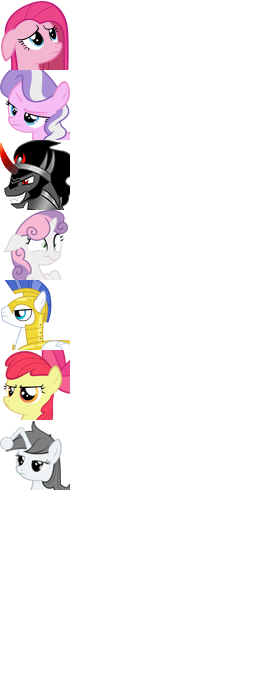
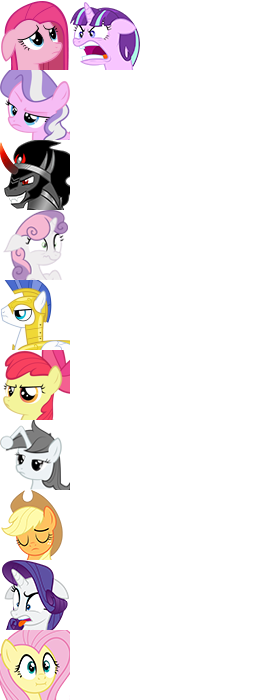
Add four new ponymoticons

Changed region(s): [[0.0, 0.6, 0.2571, 1.0], [0.2571, 0.0, 0.5143, 0.12]]

diff --git a/JabbR/Chat.emoji.js b/JabbR/Chat.emoji.js
@@ -6,7 +6,7 @@ var EmojiIcons;
     
     var validEmoji = { "+1": true, "-1": true, "0": true, "1": true, "109": true, "2": true, "3": true, "4": true, "5": true, "6": true, "7": true, "8": true, "8ball": true, "9": true, "a": true, "ab": true, "airplane": true, "alien": true, "ambulance": true, "angel": true, "anger": true, "angry": true, "apple": true, "aquarius": true, "aries": true, "arrow_backward": true, "arrow_down": true, "arrow_forward": true, "arrow_left": true, "arrow_lower_left": true, "arrow_lower_right": true, "arrow_right": true, "arrow_up": true, "arrow_upper_left": true, "arrow_upper_right": true, "art": true, "astonished": true, "atm": true, "b": true, "baby": true, "baby_chick": true, "baby_symbol": true, "balloon": true, "bamboo": true, "bank": true, "barber": true, "baseball": true, "basketball": true, "bath": true, "bear": true, "beer": true, "beers": true, "beginner": true, "bell": true, "bento": true, "bike": true, "bikini": true, "bird": true, "birthday": true, "black_square": true, "blue_car": true, "blue_heart": true, "blush": true, "boar": true, "boat": true, "bomb": true, "book": true, "boot": true, "bouquet": true, "bow": true, "bowtie": true, "boy": true, "bread": true, "briefcase": true, "broken_heart": true, "bug": true, "bulb": true, "bullettrain_front": true, "bullettrain_side": true, "bus": true, "busstop": true, "cactus": true, "cake": true, "calling": true, "camel": true, "camera": true, "cancer": true, "capricorn": true, "car": true, "cat": true, "cd": true, "chart": true, "checkered_flag": true, "cherry_blossom": true, "chicken": true, "christmas_tree": true, "church": true, "cinema": true, "city_sunrise": true, "city_sunset": true, "clap": true, "clapper": true, "clock1": true, "clock10": true, "clock11": true, "clock12": true, "clock2": true, "clock3": true, "clock4": true, "clock5": true, "clock6": true, "clock7": true, "clock8": true, "clock9": true, "closed_umbrella": true, "cloud": true, "clubs": true, "cn": true, "cocktail": true, "coffee": true, "cold_sweat": true, "computer": true, "confounded": true, "congratulations": true, "construction": true, "construction_worker": true, "convenience_store": true, "cool": true, "cop": true, "copyright": true, "couple": true, "couple_with_heart": true, "couplekiss": true, "cow": true, "crossed_flags": true, "crown": true, "cry": true, "cupid": true, "currency_exchange": true, "curry": true, "cyclone": true, "dancer": true, "dancers": true, "dango": true, "dart": true, "dash": true, "de": true, "department_store": true, "diamonds": true, "disappointed": true, "dog": true, "dolls": true, "dolphin": true, "dress": true, "dvd": true, "ear": true, "ear_of_rice": true, "egg": true, "eggplant": true, "eight_pointed_black_star": true, "eight_spoked_asterisk": true, "elephant": true, "email": true, "es": true, "european_castle": true, "exclamation": true, "eyes": true, "factory": true, "fallen_leaf": true, "fast_forward": true, "fax": true, "fearful": true, "feelsgood": true, "feet": true, "ferris_wheel": true, "finnadie": true, "fire": true, "fire_engine": true, "fireworks": true, "fish": true, "fist": true, "flags": true, "flushed": true, "football": true, "fork_and_knife": true, "fountain": true, "four_leaf_clover": true, "fr": true, "fries": true, "frog": true, "fuelpump": true, "gb": true, "gem": true, "gemini": true, "ghost": true, "gift": true, "gift_heart": true, "girl": true, "goberserk": true, "godmode": true, "golf": true, "green_heart": true, "grey_exclamation": true, "grey_question": true, "grin": true, "guardsman": true, "guitar": true, "gun": true, "haircut": true, "hamburger": true, "hammer": true, "hamster": true, "hand": true, "handbag": true, "hankey": true, "hash": true, "headphones": true, "heart": true, "heart_decoration": true, "heart_eyes": true, "heartbeat": true, "heartpulse": true, "hearts": true, "hibiscus": true, "high_heel": true, "horse": true, "hospital": true, "hotel": true, "hotsprings": true, "house": true, "hurtrealbad": true, "icecream": true, "id": true, "ideograph_advantage": true, "imp": true, "information_desk_person": true, "iphone": true, "it": true, "jack_o_lantern": true, "japanese_castle": true, "joy": true, "jp": true, "key": true, "kimono": true, "kiss": true, "kissing_face": true, "kissing_heart": true, "koala": true, "koko": true, "kr": true, "leaves": true, "leo": true, "libra": true, "lips": true, "lipstick": true, "lock": true, "loop": true, "loudspeaker": true, "love_hotel": true, "mag": true, "mahjong": true, "mailbox": true, "man": true, "man_with_gua_pi_mao": true, "man_with_turban": true, "maple_leaf": true, "mask": true, "massage": true, "mega": true, "memo": true, "mens": true, "metal": true, "metro": true, "microphone": true, "minidisc": true, "mobile_phone_off": true, "moneybag": true, "monkey": true, "monkey_face": true, "moon": true, "mortar_board": true, "mount_fuji": true, "mouse": true, "movie_camera": true, "muscle": true, "musical_note": true, "nail_care": true, "necktie": true, "new": true, "no_good": true, "no_smoking": true, "nose": true, "notes": true, "o": true, "o2": true, "ocean": true, "octocat": true, "octopus": true, "oden": true, "office": true, "ok": true, "ok_hand": true, "ok_woman": true, "older_man": true, "older_woman": true, "open_hands": true, "ophiuchus": true, "palm_tree": true, "parking": true, "part_alternation_mark": true, "pencil": true, "penguin": true, "pensive": true, "persevere": true, "person_with_blond_hair": true, "phone": true, "pig": true, "pill": true, "pisces": true, "point_down": true, "point_left": true, "point_right": true, "point_up": true, "point_up_2": true, "police_car": true, "poop": true, "post_office": true, "postbox": true, "pray": true, "princess": true, "punch": true, "purple_heart": true, "question": true, "rabbit": true, "racehorse": true, "radio": true, "rage": true, "rage1": true, "rage2": true, "rage3": true, "rage4": true, "rainbow": true, "raised_hands": true, "ramen": true, "red_car": true, "red_circle": true, "registered": true, "relaxed": true, "relieved": true, "restroom": true, "rewind": true, "ribbon": true, "rice": true, "rice_ball": true, "rice_cracker": true, "rice_scene": true, "ring": true, "rocket": true, "roller_coaster": true, "rose": true, "ru": true, "runner": true, "sa": true, "sagittarius": true, "sailboat": true, "sake": true, "sandal": true, "santa": true, "satellite": true, "satisfied": true, "saxophone": true, "school": true, "school_satchel": true, "scissors": true, "scorpius": true, "scream": true, "seat": true, "secret": true, "shaved_ice": true, "sheep": true, "shell": true, "ship": true, "shipit": true, "shirt": true, "shit": true, "shoe": true, "signal_strength": true, "six_pointed_star": true, "ski": true, "skull": true, "sleepy": true, "slot_machine": true, "smile": true, "smiley": true, "smirk": true, "smoking": true, "snake": true, "snowman": true, "sob": true, "soccer": true, "space_invader": true, "spades": true, "spaghetti": true, "sparkler": true, "sparkles": true, "speaker": true, "speedboat": true, "squirrel": true, "star": true, "star2": true, "stars": true, "station": true, "statue_of_liberty": true, "stew": true, "strawberry": true, "sunflower": true, "sunny": true, "sunrise": true, "sunrise_over_mountains": true, "surfer": true, "sushi": true, "suspect": true, "sweat": true, "sweat_drops": true, "swimmer": true, "syringe": true, "tada": true, "tangerine": true, "taurus": true, "taxi": true, "tea": true, "telephone": true, "tennis": true, "tent": true, "thumbsdown": true, "thumbsup": true, "ticket": true, "tiger": true, "tm": true, "toilet": true, "tokyo_tower": true, "tomato": true, "tongue": true, "top": true, "tophat": true, "traffic_light": true, "train": true, "trident": true, "trollface": true, "trophy": true, "tropical_fish": true, "truck": true, "trumpet": true, "tshirt": true, "tulip": true, "tv": true, "u5272": true, "u55b6": true, "u6307": true, "u6708": true, "u6709": true, "u6e80": true, "u7121": true, "u7533": true, "u7a7a": true, "umbrella": true, "unamused": true, "underage": true, "unlock": true, "up": true, "us": true, "v": true, "vhs": true, "vibration_mode": true, "virgo": true, "vs": true, "walking": true, "warning": true, "watermelon": true, "wave": true, "wc": true, "wedding": true, "whale": true, "wheelchair": true, "white_square": true, "wind_chime": true, "wink": true, "wink2": true, "wolf": true, "woman": true, "womans_hat": true, "womens": true, "x": true, "yellow_heart": true, "zap": true, "zzz": true };
     var validv4c = { "ducktart": "dooktart.png", "ready": "ready.gif", "birry": "ztop.gif", "vdog": "cat.gif", "gaben": "zgabe.gif", "3s": "seal.png", "burd": "birdy.gif", "snoop": "snoop.gif", "jimmies": "jimmy.gif", "sanic": "sonicx.png", "burgirl": "ss.gif", "dilbert": "dilbert.gif", "deepdarkfantasy": "fantasy.gif", "bioware": "biogurl.gif", "shazbot": "33.png", "bestkorea": "kim.gif", "hitoame": "shower.gif", "duane": "duane.gif", "keke": "keke6.png", "uncle": "VffoS.jpg", "reshiram": "ee.gif", "push": "push.gif", "autism": "a.gif", "juggalo": "ll.gif", "stanza": "heh.png", "bestgames": "pstriple.png", "gamestop": "spekettle.gif", "teto": "oz.gif", "fothegrove": "grove.gif", "aliens": "aliens.gif", "go": "zgo.gif", "pomf": "pomf.png", "kreayshawn": "kray.png", "bodywash": "bodywash.png", "goblinu": "zgobz.jpg", "feel": "feel.png", "valien": "ssd.gif", "2spooky4me": "spooky.gif", "gooby": "o2XNE.jpg", "dosh": "dsdasd.png", "8bitdose": "wee2.gif", "costanza": "heh.png", "america": "america.gif", "babyface": "babyface.gif", "babyguitar": "babyguitar.gif", "bearfight": "bearfight.gif", "bogs": "bogs.png", "boom": "boom.png", "brobill": "brobill.gif", "chen": "chen.png", "dante": "dante.png", "data": "data.gif", "datass": "datass.gif", "dewbunker": "dewbunker.gif", "dewritos": "dewritos.jpg", "doingitwell": "doingitwell.png", "doot": "doot.gif", "dreck": "dreck.png", "el": "el.gif", "facepalm": "facepalm.png", "feelsgud": "feelsgud.png", "fichdich": "fichdich.png", "fresh": "fresh.gif", "gigaduane": "gigaduane.gif", "happening": "happening.gif", "haveaseat": "haveaseat.png", "heero": "heero.png", "idontwantthat": "idontwantthat.png", "jaffa": "jaffa.png", "jew": "jew.gif", "jii": "jii.png", "kek": "kek.png", "kfc": "kfc.gif", "kitty": "kitty.gif", "loading": "loading.gif", "manboss": "manboss.gif", "meeku": "meeku.png", "mfw": "mfw.png", "miku": "miku.gif", "miku2": "miku2.gif", "morefresh": "morefresh.gif", "mysides": "mysides.png", "nice": "nice.png", "nofun": "nofun.png", "nogaems": "nogaems.gif", "nope": "nope.gif", "obama": "obama.gif", "ohlawd": "ohlawd.png", "oo": "oo.gif", "osama": "osama.png", "otter": "otter.gif", "pekaface": "pekaface.png", "pikminu": "pikminu.png", "plzgo": "plzgo.png", "praise": "praise.png", "pumpkindance": "pumpkindance.gif", "raging": "raging.png", "rattle": "rattle.gif", "ravi": "ravi.gif", "raw": "raw.png", "remove": "remove.gif", "rip": "rip.png", "satan": "satan.gif", "science": "science.gif", "skeleton": "skeleton.gif", "slam": "slam.png", "slav": "slav.gif", "spherical": "spherical.png", "spurdance": "spurdance.gif", "spurdo": "spurdo.png", "stepfather": "stepfather.png", "stop": "stop.png", "swerve": "swerve.png", "tails": "tails.png", "thed": "thed.png", "turkey": "turkey.png", "twerk": "twerk.gif", "tyrone": "tyrone.png", "umirin": "umirin.jpg", "usa": "usa.gif", "wabbit": "wabbit.png", "whatastory": "whatastory.png", "why": "why.png", "wow": "wow.png", "yotsubano": "yotsubano.png" };
-    var validPony = { "ajlie": "a", "priceless": "a", "flutterjerk": "a", "flutterroll": "a", "twipride": "a", "celestiamad": "a", "twicrazy": "a", "spikemeh": "a", "lunateehee": "a", "lunawait": "a", "paperbagderpy": "a", "abmeh": "a", "ajhappy": "a", "pinkiefear": "a", "twibeam": "a", "scootaderp": "a", "raritydaww": "a", "scootacheer": "a", "swagintosh": "a", "pinkieawe": "a", "ajsup": "a", "flutterwhoa": "a", "rdcry": "a", "silverspoon": "a", "ohcomeon": "a", "ppcute": "a", "abbored": "a", "rarityreally": "a", "raritypaper": "a", "sbbook": "a", "scootaplease": "a", "applegasp": "a", "twiright": "a", "celestiawut": "a", "grannysmith": "a", "rarishock": "a", "shiningarmor": "a", "chrysalis": "a", "cadence": "a", "applederp": "a", "flutterfear": "b", "ppboring": "b", "rarityyell": "b", "fluttershy": "b", "ajcower": "b", "ajsly": "b", "eeyup": "b", "rdsmile": "b", "fluttersrs": "b", "raritydress": "b", "takealetter": "b", "rdwut": "b", "ppshrug": "b", "spikenervous": "b", "noooo": "b", "dj": "b", "fluttershh": "b", "flutteryay": "b", "squintyjack": "b", "spikepushy": "b", "ajugh": "b", "raritywut": "b", "dumbfabric": "b", "raritywhy": "b", "trixiesmug": "b", "flutterwink": "b", "rarityannoyed": "b", "soawesome": "b", "ajwut": "b", "twisquint": "b", "raritywhine": "b", "rdcool": "b", "abwut": "b", "manspike": "b", "cockatrice": "b", "facehoof": "b", "rarityjudge": "b", "rarityprimp": "b", "twirage": "b", "ppseesyou": "b", "rdsitting": "c", "rdhappy": "c", "rdannoyed": "c", "trixiesad": "c", "twismug": "c", "twismile": "c", "twistare": "c", "changeling": "c", "ohhi": "c", "party": "c", "hahaha": "c", "rdscared": "c", "flutterblush": "c", "gross": "c", "derpyhappy": "c", "twidaww": "c", "ajfrown": "c", "hmmm": "c", "pinkiejoy": "c", "whattheflut": "c", "raritysad": "c", "fabulous": "c", "derp": "c", "cadencesmile": "c", "louder": "c", "lunasad": "c", "derpyshock": "c", "shiningpride": "c", "pinkamina": "c", "loveme": "c", "lunagasp": "c", "fluttercry": "c", "scootaloo": "c", "celestia": "c", "angelglare": "c", "sneakybelle": "c", "allmybits": "c", "zecora": "c", "photofinish": "c", "ppreally": "c", "stonie": "d", "pinkiehigh": "d", "rbtrippin": "d", "spikehigh": "d", "pervertedaj": "d", "twihigh": "d", "fluttersqueak": "d", "happyrarity": "d", "bakedrarity": "d", "rbhigh": "d", "ajhuh": "d", "flutterfree": "d", "celestreeia": "d", "awwshit": "d", "treepony": "d", "rbomg": "d", "mobboss": "d", "opalescence": "d", "sneakiepinkie": "d", "dirigible": "d", "trixiehigh": "d", "twiderp": "d", "whoovesing": "d", "twiheh": "d", "flutterhigh": "d", "derpyhigh": "d", "flutteryeah": "d", "spikegimmie": "d", "sirderp": "d", "twiblah": "d", "fluttersmoke": "d", "braeburnhuh": "d", "bakedspike": "d", "lunasly": "d", "derpinkie": "d", "lunasilly": "d", "rbreally": "d", "rarityhuh": "d", "bluebowl": "d", "fillytgap": "e", "rdhuh": "e", "snails": "e", "twisad": "e", "lyra": "e", "bonbon": "e", "spitfire": "e", "lunamad": "e", "cutealoo": "e", "happyluna": "e", "sotrue": "e", "discordsad": "e", "wahaha": "e", "sbstare": "e", "berry": "e", "maud": "e", "huhhuh": "e", "absmile": "e", "dealwithit": "e", "pinkiepout": "e", "nmm": "e", "whooves": "e", "rdsalute": "e", "twisecret": "e", "octavia": "e", "colgate": "e", "cheerilee": "e", "sunsetshimmer": "e", "ajbaffle": "e", "abhuh": "e", "lily": "e", "sunsetsneaky": "e", "twiponder": "e", "spikewtf": "e", "awwyeah": "e", "scootablue": "e", "gilda": "e", "discentia": "e", "macintears": "e", "spikehappy": "e", "ppsad": "f", "dt": "f", "sombra": "f", "sbshocked": "f", "guard": "f", "abstern": "f", "apathia": "f" };
+    var validPony = { "ajlie": "a", "priceless": "a", "flutterjerk": "a", "flutterroll": "a", "twipride": "a", "celestiamad": "a", "twicrazy": "a", "spikemeh": "a", "lunateehee": "a", "lunawait": "a", "paperbagderpy": "a", "abmeh": "a", "ajhappy": "a", "pinkiefear": "a", "twibeam": "a", "scootaderp": "a", "raritydaww": "a", "scootacheer": "a", "swagintosh": "a", "pinkieawe": "a", "ajsup": "a", "flutterwhoa": "a", "rdcry": "a", "silverspoon": "a", "ohcomeon": "a", "ppcute": "a", "abbored": "a", "rarityreally": "a", "raritypaper": "a", "sbbook": "a", "scootaplease": "a", "applegasp": "a", "twiright": "a", "celestiawut": "a", "grannysmith": "a", "rarishock": "a", "shiningarmor": "a", "chrysalis": "a", "cadence": "a", "applederp": "a", "flutterfear": "b", "ppboring": "b", "rarityyell": "b", "fluttershy": "b", "ajcower": "b", "ajsly": "b", "eeyup": "b", "rdsmile": "b", "fluttersrs": "b", "raritydress": "b", "takealetter": "b", "rdwut": "b", "ppshrug": "b", "spikenervous": "b", "noooo": "b", "dj": "b", "fluttershh": "b", "flutteryay": "b", "squintyjack": "b", "spikepushy": "b", "ajugh": "b", "raritywut": "b", "dumbfabric": "b", "raritywhy": "b", "trixiesmug": "b", "flutterwink": "b", "rarityannoyed": "b", "soawesome": "b", "ajwut": "b", "twisquint": "b", "raritywhine": "b", "rdcool": "b", "abwut": "b", "manspike": "b", "cockatrice": "b", "facehoof": "b", "rarityjudge": "b", "rarityprimp": "b", "twirage": "b", "ppseesyou": "b", "rdsitting": "c", "rdhappy": "c", "rdannoyed": "c", "trixiesad": "c", "twismug": "c", "twismile": "c", "twistare": "c", "changeling": "c", "ohhi": "c", "party": "c", "hahaha": "c", "rdscared": "c", "flutterblush": "c", "gross": "c", "derpyhappy": "c", "twidaww": "c", "ajfrown": "c", "hmmm": "c", "pinkiejoy": "c", "whattheflut": "c", "raritysad": "c", "fabulous": "c", "derp": "c", "cadencesmile": "c", "louder": "c", "lunasad": "c", "derpyshock": "c", "shiningpride": "c", "pinkamina": "c", "loveme": "c", "lunagasp": "c", "fluttercry": "c", "scootaloo": "c", "celestia": "c", "angelglare": "c", "sneakybelle": "c", "allmybits": "c", "zecora": "c", "photofinish": "c", "ppreally": "c", "stonie": "d", "pinkiehigh": "d", "rbtrippin": "d", "spikehigh": "d", "pervertedaj": "d", "twihigh": "d", "fluttersqueak": "d", "happyrarity": "d", "bakedrarity": "d", "rbhigh": "d", "ajhuh": "d", "flutterfree": "d", "celestreeia": "d", "awwshit": "d", "treepony": "d", "rbomg": "d", "mobboss": "d", "opalescence": "d", "sneakiepinkie": "d", "dirigible": "d", "trixiehigh": "d", "twiderp": "d", "whoovesing": "d", "twiheh": "d", "flutterhigh": "d", "derpyhigh": "d", "flutteryeah": "d", "spikegimmie": "d", "sirderp": "d", "twiblah": "d", "fluttersmoke": "d", "braeburnhuh": "d", "bakedspike": "d", "lunasly": "d", "derpinkie": "d", "lunasilly": "d", "rbreally": "d", "rarityhuh": "d", "bluebowl": "d", "fillytgap": "e", "rdhuh": "e", "snails": "e", "twisad": "e", "lyra": "e", "bonbon": "e", "spitfire": "e", "lunamad": "e", "cutealoo": "e", "happyluna": "e", "sotrue": "e", "discordsad": "e", "wahaha": "e", "sbstare": "e", "berry": "e", "maud": "e", "huhhuh": "e", "absmile": "e", "dealwithit": "e", "pinkiepout": "e", "nmm": "e", "whooves": "e", "rdsalute": "e", "twisecret": "e", "octavia": "e", "colgate": "e", "cheerilee": "e", "sunsetshimmer": "e", "ajbaffle": "e", "abhuh": "e", "lily": "e", "sunsetsneaky": "e", "twiponder": "e", "spikewtf": "e", "awwyeah": "e", "scootablue": "e", "gilda": "e", "discentia": "e", "macintears": "e", "spikehappy": "e", "ppsad": "f", "dt": "f", "sombra": "f", "sbshocked": "f", "guard": "f", "abstern": "f", "apathia": "f", "ajcry": "f", "rarityeww": "f", "flutterkay": "f", "starlightrage": "f" };
 
     var validHotglue = { "doge": "1", "fertilemeadors": "1", "game": "1", "henohenomoheji": "1", "lolwut": "1", "moar": "1", "pedobear": "1", "wat": "1", "yaranaika1": "1", "yaranaika2": "1", "derika": "1", "babz": "1", "bson": "1", "shanz": "1", "jamesy": "1", "kimjongwhere": "1", "doobie": "1" };
     var validYukkuri = {

diff --git a/JabbR/Content/ponymoticon.css b/JabbR/Content/ponymoticon.css
@@ -219,3 +219,7 @@ td.ponymoticon { margin-top: 0; }
 .ponymoticon-guard { background-position: -0px -280px; }
 .ponymoticon-abstern { background-position: -0px -350px; }
 .ponymoticon-apathia { background-position: -0px -420px; }
+.ponymoticon-ajcry { background-position: -0px -490px; }
+.ponymoticon-rarityeww { background-position: -0px -560px; }
+.ponymoticon-flutterkay { background-position: -0px -630px; }
+.ponymoticon-starlightrage { background-position: -70px -0px; }
